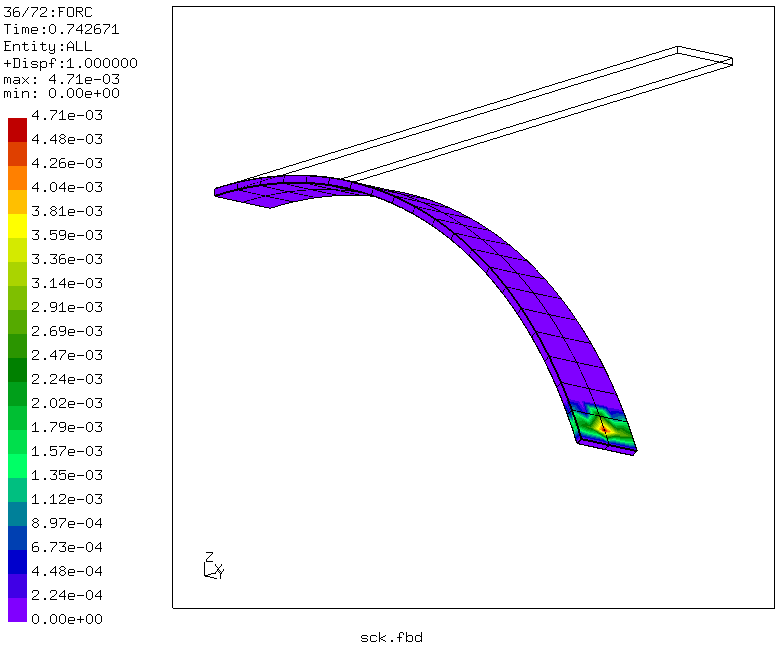
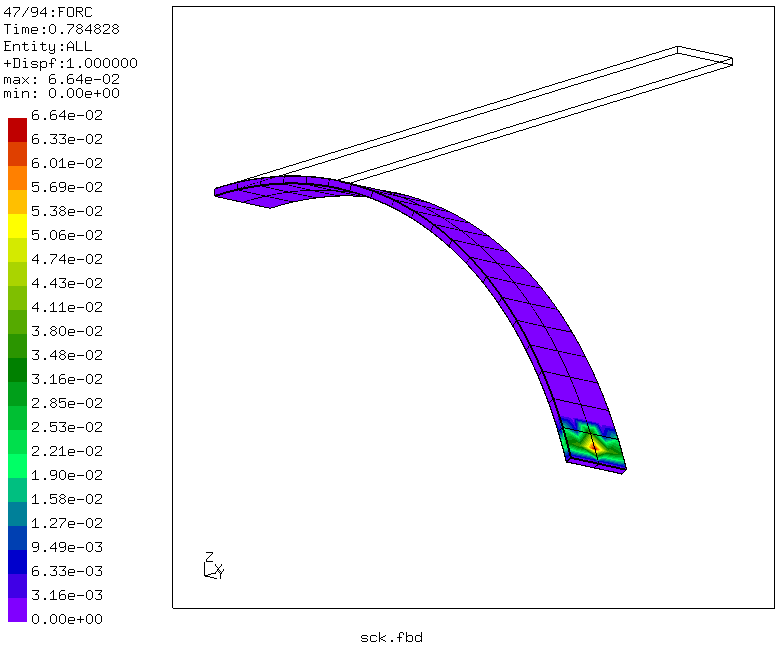
modified kinematic coupling

diff --git a/Streifen/README.md b/Streifen/README.md
@@ -1,5 +1,5 @@
 # 90°-Bending of an Elastic Strip
-Tested with CGX/CCX 2.12
+Tested with CGX 2.12.1/CCX 2.12
 
 This example demonstrates the application of prescribed rotations to node sets.
 The structure is an elastic flat strip of dimensions 100x10x1 mm³. One end is
@@ -120,11 +120,12 @@ The simulation doesn't complete a single increment.
 <img src="scd.png" width="600" title="Convergence plot">
 
 ## Coupling/Kinematic
-The rotation is applied using surface based kinematic coupling
+The rotation is applied using surface based kinematic coupling (with the y-displacement not coupled)
 ```
 *coupling,refnode=1,surface=Srot,constraint name=rot
 *kinematic
-1,3
+1
+3
 ```
 and
 ```
@@ -136,7 +137,7 @@ Run the analysis:
 ```
 > cgx -b sck.fbd
 ```
-At 74% of the specified deformation, the incremental time becomes too small and the solution is stopped. This is the same deformation as reached with rigid body constraints but a much less increments.
+At 78% of the specified deformation, the incremental time becomes too small and the solution is stopped.
 
 <img src="sck-mesh.png" width="300" title="Solid model with surface based load (kinematic coupling)"><img src="sck-def.png" width="300" title="Residual forces">
 
